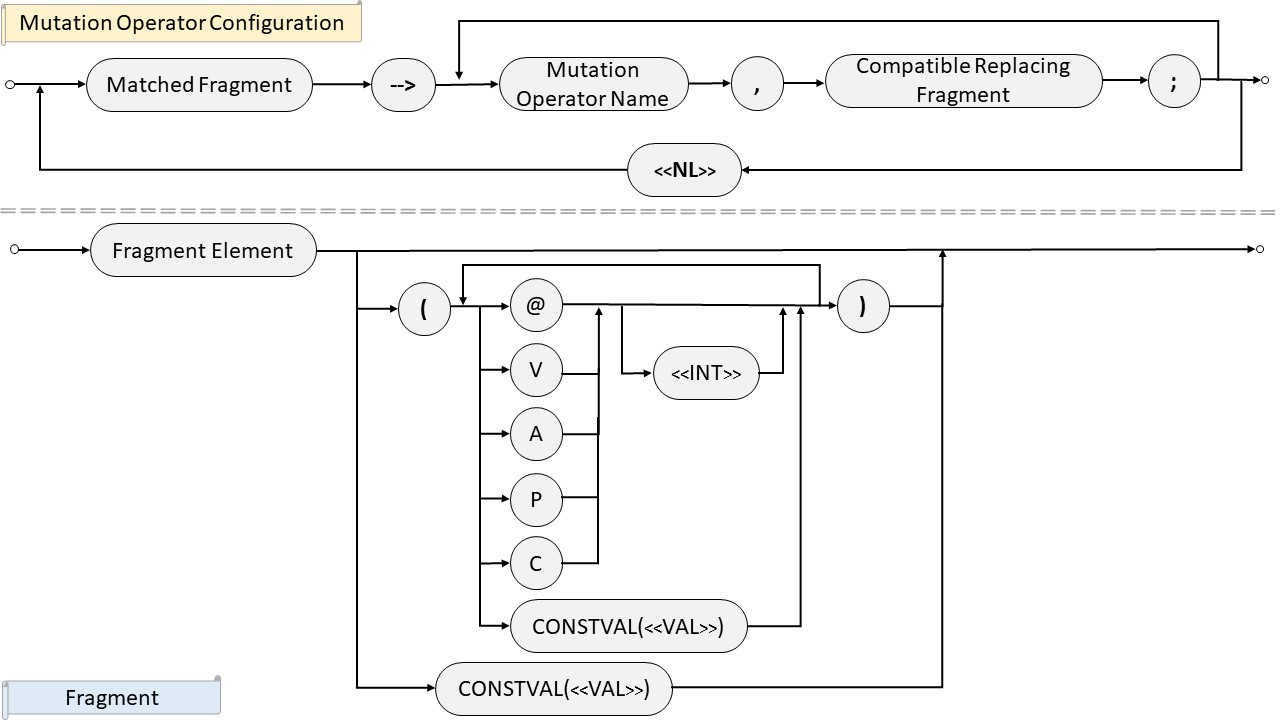
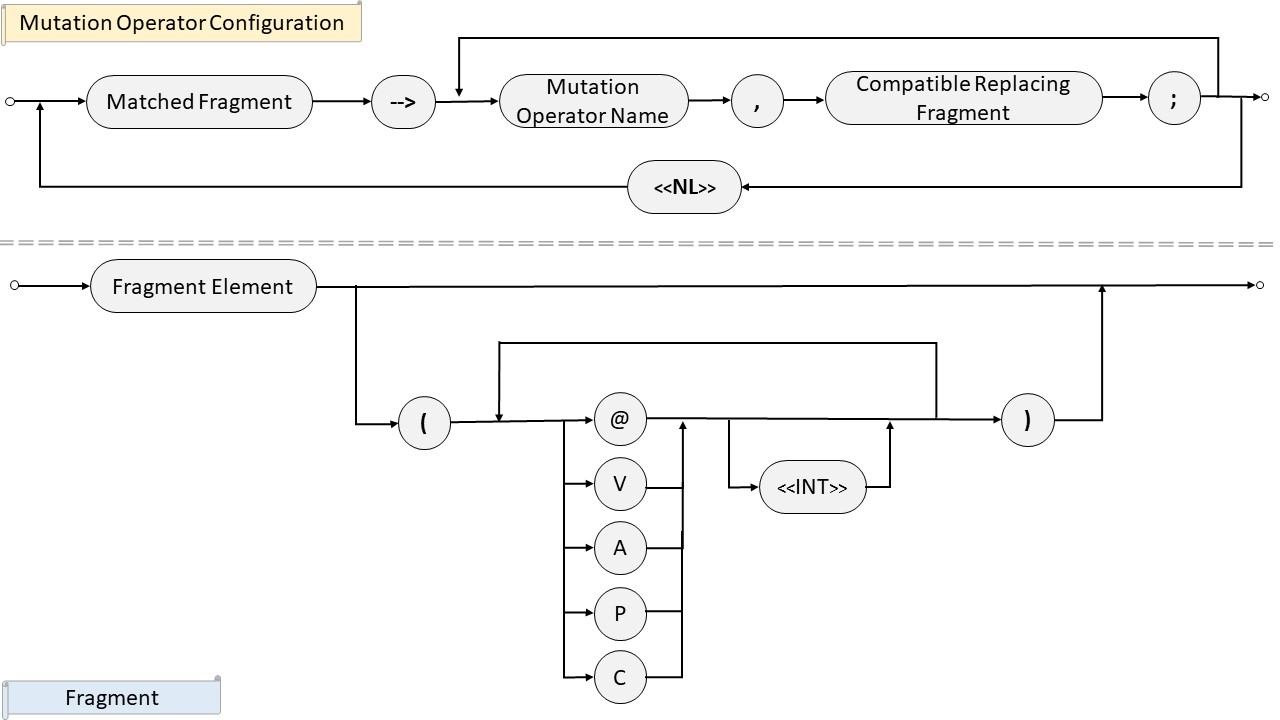
ix doc

diff --git a/docs/mutation_configuration.md b/docs/mutation_configuration.md
@@ -23,7 +23,7 @@ __*Note*__: The argument (`@, C, V, A, P`) for the `Compatible Replacing Fragmen
 Following is an example of mutation operators configuration:
 ```
 ADD(@1,@2) --> Mutop1.1, SUB(@1, @2); Mutop1.2, SUB(@2, @1); Mutop1.3 TRAPSTMT;
-LEFTINC(V) --> Mutop2.1, RIGHTDEC(V); Mutop2.2, ASSIGN(V, CONSTVAL(0))
+LEFTINC(V) --> Mutop2.1, RIGHTDEC(V); Mutop2.2, ASSIGN(V, 0)
 ```
 In this example we have 3 mutation operators:
 - _Mutop1.1_: Replace Sum of two expressions by Their Difference.
@@ -44,7 +44,7 @@ The following table gives information about the currently Supported Fragment Ele
 |  V  | Any Scalar Variable|:heavy_check_mark:|:x:| :heavy_check_mark: |
 |  A  | Any Address|:heavy_check_mark:|:x:| :heavy_check_mark: |
 |  P  | Any Pointer Variable|:heavy_check_mark:|:x:| :heavy_check_mark: |
-|  CONSTVAL  |specific constant value: 1 arg (const val)|:x:|:heavy_check_mark:| :heavy_check_mark: |
+|  CONSTVAL  |specific constant value: 1 arg (const val)|:x:|:heavy_check_mark:| :x: |
 |  OPERAND  | return an operand of an expression: 1 arg (operand class) |:x:|:heavy_check_mark:| :x: |
 |  ABS  | Absolute value of the argument (single argument) |:x:|:heavy_check_mark:| :x: |
 |  NEG  | Scalar arithmetic negation|:heavy_check_mark:|:heavy_check_mark:| :x: |
